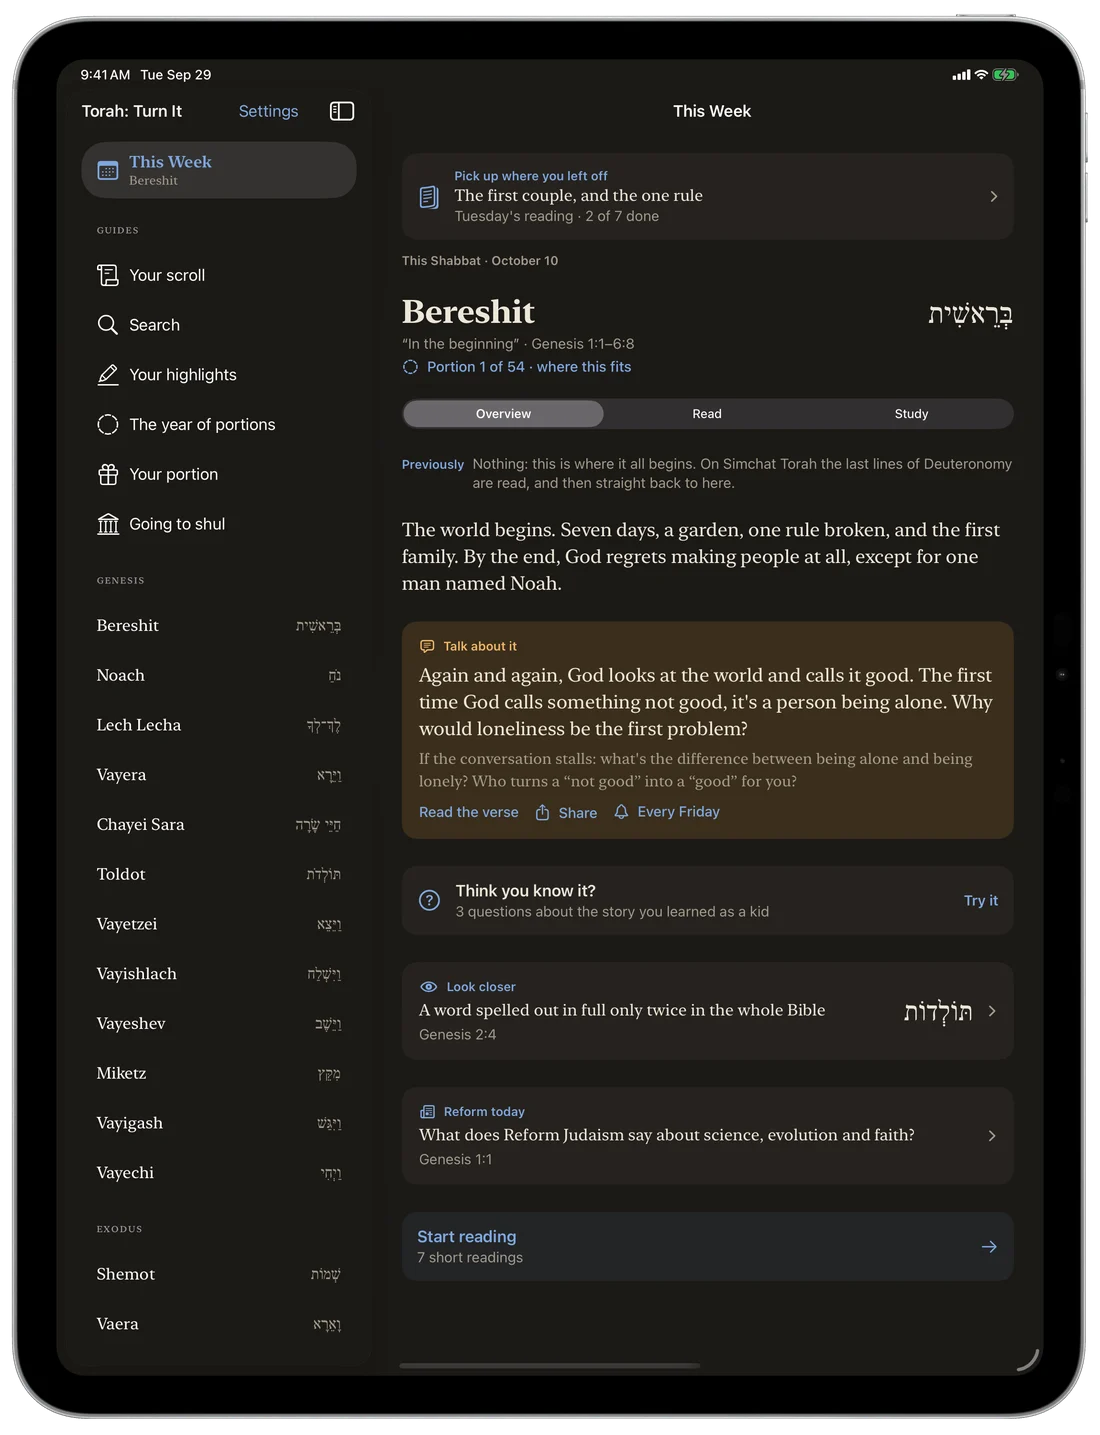
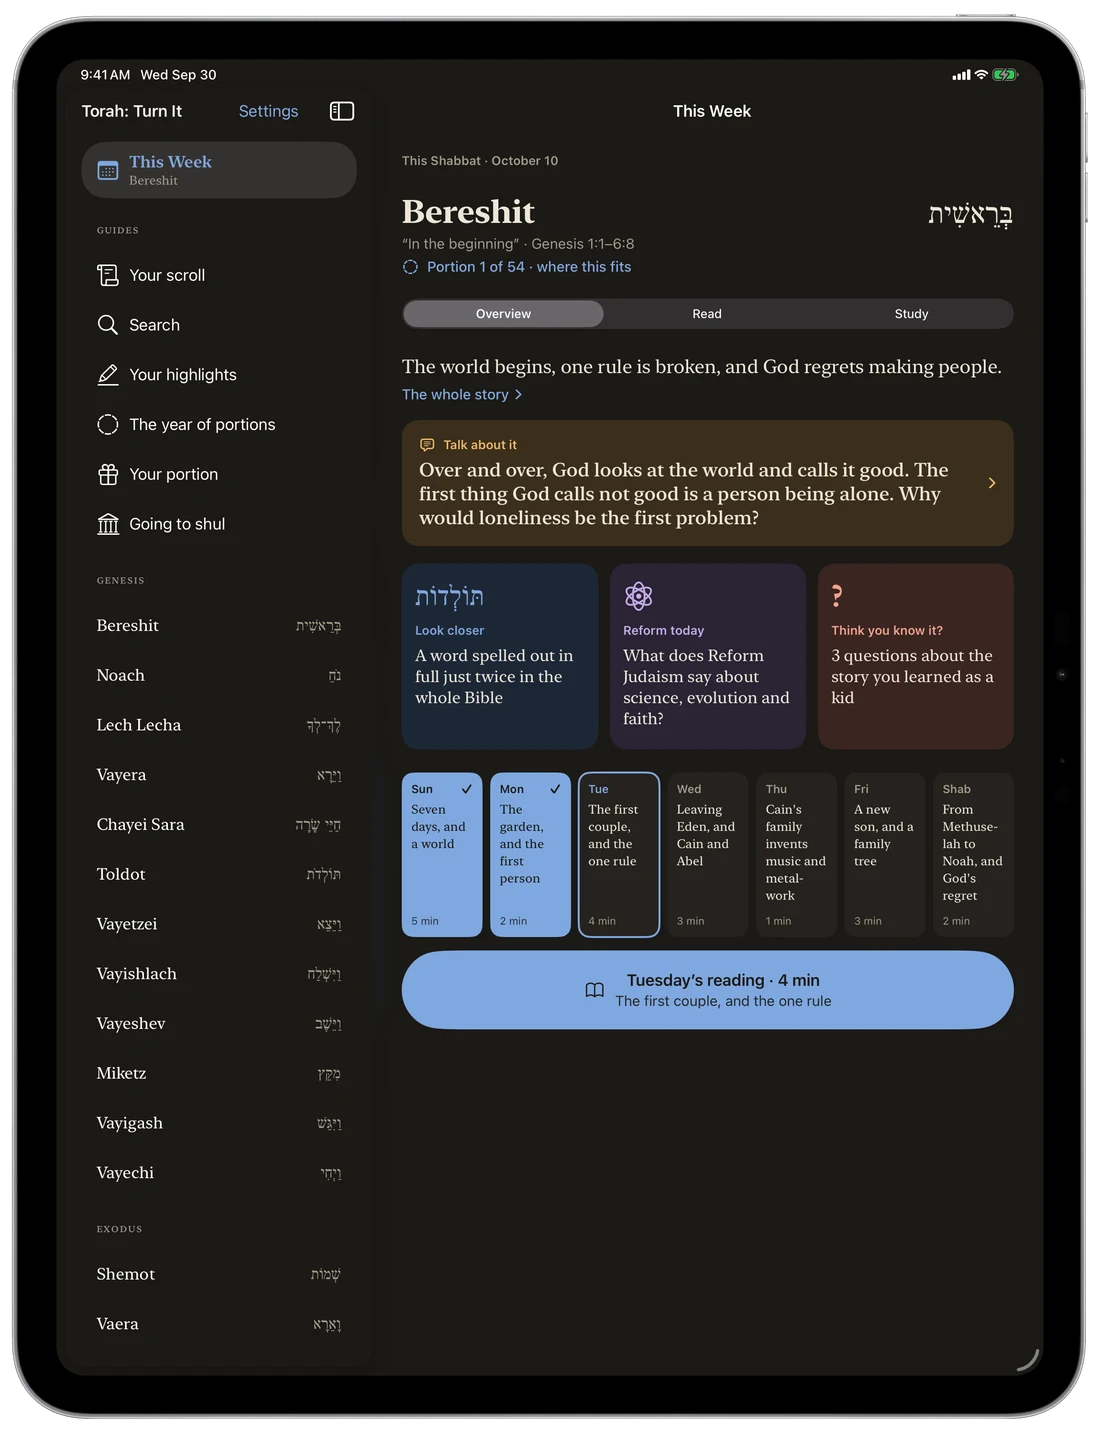
New screenshots from the current app; Discord link

diff --git a/index.html b/index.html
@@ -42,8 +42,8 @@
     <p class="note" data-store-soon>Coming to the App Store for iPhone and iPad.</p>
   </div>
   <picture class="hero-shot">
-    <source srcset="img/iphone-thisweek-dark.webp" media="(prefers-color-scheme: dark)">
-    <img src="img/iphone-thisweek.webp" alt="This Week in the app: the portion's story in one line, a question to talk about, and the week's readings" width="560" height="1143">
+    <source srcset="img/iphone-thisweek-dark.webp?v=2" media="(prefers-color-scheme: dark)">
+    <img src="img/iphone-thisweek.webp?v=2" alt="This Week in the app: the portion's story in one line, a question to talk about, and the week's readings" width="560" height="1143">
   </picture>
 </section>
 
@@ -58,16 +58,16 @@
 </section>
 
 <section class="shots" aria-label="Screens from the app">
-  <figure><img src="img/iphone-lookcloser.webp" alt="Look closer: the word toledot, spelled out in full only twice in the whole Bible" width="560" height="1143" loading="lazy"><figcaption>Every week, one small surprise in the Hebrew</figcaption></figure>
-  <figure><picture><source srcset="img/iphone-reader-dark.webp" media="(prefers-color-scheme: dark)"><img src="img/iphone-reader.webp" alt="Sunday's reading of Bereshit, Hebrew and English verse by verse, with one verse highlighted" width="560" height="1143" loading="lazy"></picture><figcaption>A few minutes a day, with room for your own highlights</figcaption></figure>
-  <figure><img src="img/iphone-reform.webp" alt="What does Reform Judaism say about science, evolution and faith?" width="560" height="1143" loading="lazy"><figcaption>What Reform Judaism says, and why</figcaption></figure>
-  <figure><img src="img/iphone-study.webp" alt="The Study tab: Study together, Who's who, Why Jews do this, A hard part, The rabbis argue" width="560" height="1143" loading="lazy"><figcaption>On your own, or with someone to learn with</figcaption></figure>
-  <figure><img src="img/iphone-scroll.webp" alt="Your scroll: the year's portions drawn as columns of a Torah scroll, the ones you've read filled in" width="560" height="1143" loading="lazy"><figcaption>Your own scroll fills in as you read through the year</figcaption></figure>
-  <figure><picture><source srcset="img/iphone-thisweek-dark.webp" media="(prefers-color-scheme: dark)"><img src="img/iphone-thisweek.webp" alt="This Week, in the app's dark look" width="560" height="1143" loading="lazy"></picture><figcaption>Always opens on this week's portion</figcaption></figure>
+  <figure><img src="img/iphone-lookcloser.webp?v=2" alt="Look closer: the word toledot, spelled out in full only twice in the whole Bible" width="560" height="1143" loading="lazy"><figcaption>Every week, one small surprise in the Hebrew</figcaption></figure>
+  <figure><picture><source srcset="img/iphone-reader-dark.webp?v=2" media="(prefers-color-scheme: dark)"><img src="img/iphone-reader.webp?v=2" alt="Sunday's reading of Bereshit, Hebrew and English verse by verse, with one verse highlighted" width="560" height="1143" loading="lazy"></picture><figcaption>A few minutes a day, with room for your own highlights</figcaption></figure>
+  <figure><img src="img/iphone-reform.webp?v=2" alt="What does Reform Judaism say about science, evolution and faith?" width="560" height="1143" loading="lazy"><figcaption>What Reform Judaism says, and why</figcaption></figure>
+  <figure><img src="img/iphone-study.webp?v=2" alt="The Study tab: Study together, Who's who, Why Jews do this, A hard part, The rabbis argue" width="560" height="1143" loading="lazy"><figcaption>On your own, or with someone to learn with</figcaption></figure>
+  <figure><img src="img/iphone-scroll.webp?v=2" alt="Your scroll: the year's portions drawn as columns of a Torah scroll, the ones you've read filled in" width="560" height="1143" loading="lazy"><figcaption>Your own scroll fills in as you read through the year</figcaption></figure>
+  <figure><picture><source srcset="img/iphone-thisweek-dark.webp?v=2" media="(prefers-color-scheme: dark)"><img src="img/iphone-thisweek.webp?v=2" alt="This Week, in the app's dark look" width="560" height="1143" loading="lazy"></picture><figcaption>Always opens on this week's portion</figcaption></figure>
 </section>
 
 <section class="ipad" aria-label="The app on iPad">
-  <picture><source srcset="img/ipad-thisweek-dark.webp" media="(prefers-color-scheme: dark)"><img src="img/ipad-thisweek.webp" alt="This Week on iPad, with the whole portion laid out in tiles" width="1100" height="1435" loading="lazy"></picture>
+  <picture><source srcset="img/ipad-thisweek-dark.webp?v=2" media="(prefers-color-scheme: dark)"><img src="img/ipad-thisweek.webp?v=2" alt="This Week on iPad: the story in one line, the tiles, and the week's seven readings laid out as cards" width="1100" height="1435" loading="lazy"></picture>
   <figcaption>On iPad, the whole week at a glance, with keyboard shortcuts too.</figcaption>
 </section>
 

diff --git a/site.js b/site.js
@@ -1,6 +1,5 @@
 // Discord invite, in one place. Every [data-discord] link uses it; empty hides them all.
-// Torah: Turn It has no Discord yet.
-var DISCORD = "";
+var DISCORD = "https://discord.gg/fBcGPDyCUe";
 (function () {
   document.querySelectorAll("[data-discord]").forEach(function (a) {
     if (!DISCORD) { a.hidden = true; return; }
